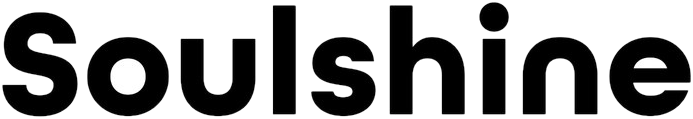
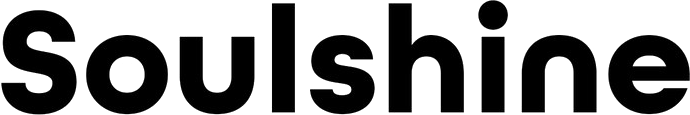
Soulshine: wordmarks with clear letter counters; halftone versions removed
Claude-Session: https://claude.ai/code/session_017Bf2Ji9pqjddmca5aaYHp1

diff --git a/index.html b/index.html
@@ -1881,7 +1881,7 @@ h3,.hl h3,.ss-lead .hl h3,.ss-roles .hl h3,.steps h3,.lede,.meta dd,.stat strong
           <p class="label">Typography</p>
           <div class="type-grid three">
             <div class="type-card light-card">
-              <img class="type-hero" src="img/soulshine/wordmark-black-cut.png" alt="" loading="lazy">
+              <img class="type-hero" src="img/soulshine/wordmark-black-cut.png?v=2" alt="" loading="lazy">
               <span class="type-name">All Round Gothic Bold</span>
               <span class="type-use">The logo wordmark</span>
               <img class="type-img" src="img/soulshine/type-allround.jpg" alt="The words All Round Gothic Bold, set in All Round Gothic Bold" loading="lazy">
@@ -1911,10 +1911,8 @@ h3,.hl h3,.ss-lead .hl h3,.ss-roles .hl h3,.steps h3,.lede,.meta dd,.stat strong
             <div class="lstep full">
               <p class="label">Wordmark</p>
               <div class="wordmarks">
-                <span class="wm-tile"><img src="img/soulshine/wordmark-black-cut.png" alt="Soulshine wordmark in black" loading="lazy"></span>
-                <span class="wm-tile"><img src="img/soulshine/wordmark-blue-cut.png" alt="Soulshine wordmark in blue" loading="lazy"></span>
-                <span class="wm-tile"><img src="img/soulshine/wordmark-halftone-blue-cut.png" alt="Soulshine wordmark in black with a blue halftone glow" loading="lazy"></span>
-                <span class="wm-tile"><img src="img/soulshine/wordmark-halftone-black-cut.png" alt="Soulshine wordmark in blue with a black halftone glow" loading="lazy"></span>
+                <span class="wm-tile"><img src="img/soulshine/wordmark-black-cut.png?v=2" alt="Soulshine wordmark in black" loading="lazy"></span>
+                <span class="wm-tile"><img src="img/soulshine/wordmark-blue-cut.png?v=2" alt="Soulshine wordmark in blue" loading="lazy"></span>
               </div>
             </div>
             <div class="lstep">
